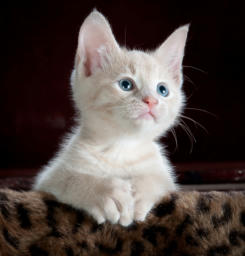
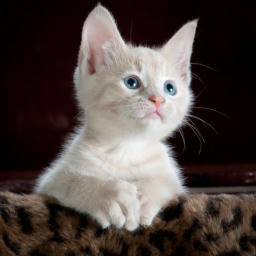
fix tile proportions

diff --git a/tiled-images/server/src/main.rs b/tiled-images/server/src/main.rs
@@ -1,5 +1,6 @@
 use actix_cors::Cors;
 use actix_web::{get, http, web, App, HttpRequest, HttpResponse, HttpServer, Responder};
+use image::GenericImageView;
 use std::io::Cursor;
 
 struct AppState {
@@ -26,12 +27,12 @@ async fn cat(req: HttpRequest) -> impl Responder {
     // Crop image
     let i: u32 = x * n;
     let j: u32 = y * n;
-    let dynamic_image = image::open(format!("{}.jpg", z))
-        .expect("")
-        .crop_imm(i, j, n, n);
+
+    let dynamic_image = image::open(format!("{}.jpg", z)).expect("");
 
     let mut body: Vec<u8> = Vec::new();
     dynamic_image
+        .crop_imm(i, j, n, n)
         .write_to(
             &mut Cursor::new(&mut body),
             image::ImageOutputFormat::from(image::ImageFormat::Jpeg),

diff --git a/tiled-images/tiler/src/main.rs b/tiled-images/tiler/src/main.rs
@@ -6,7 +6,7 @@ fn main() {
     let img = image::open("../server/cat.jpg").unwrap();
     for z in 0..7 {
         println!("Save: {}.jpg", z);
-        img.resize(64 * u32::pow(2, z), 64 * u32::pow(2, z), Triangle)
+        img.resize_to_fill(64 * u32::pow(2, z), 64 * u32::pow(2, z), Triangle)
             .save(format!("{}.jpg", z))
             .unwrap();
     }
